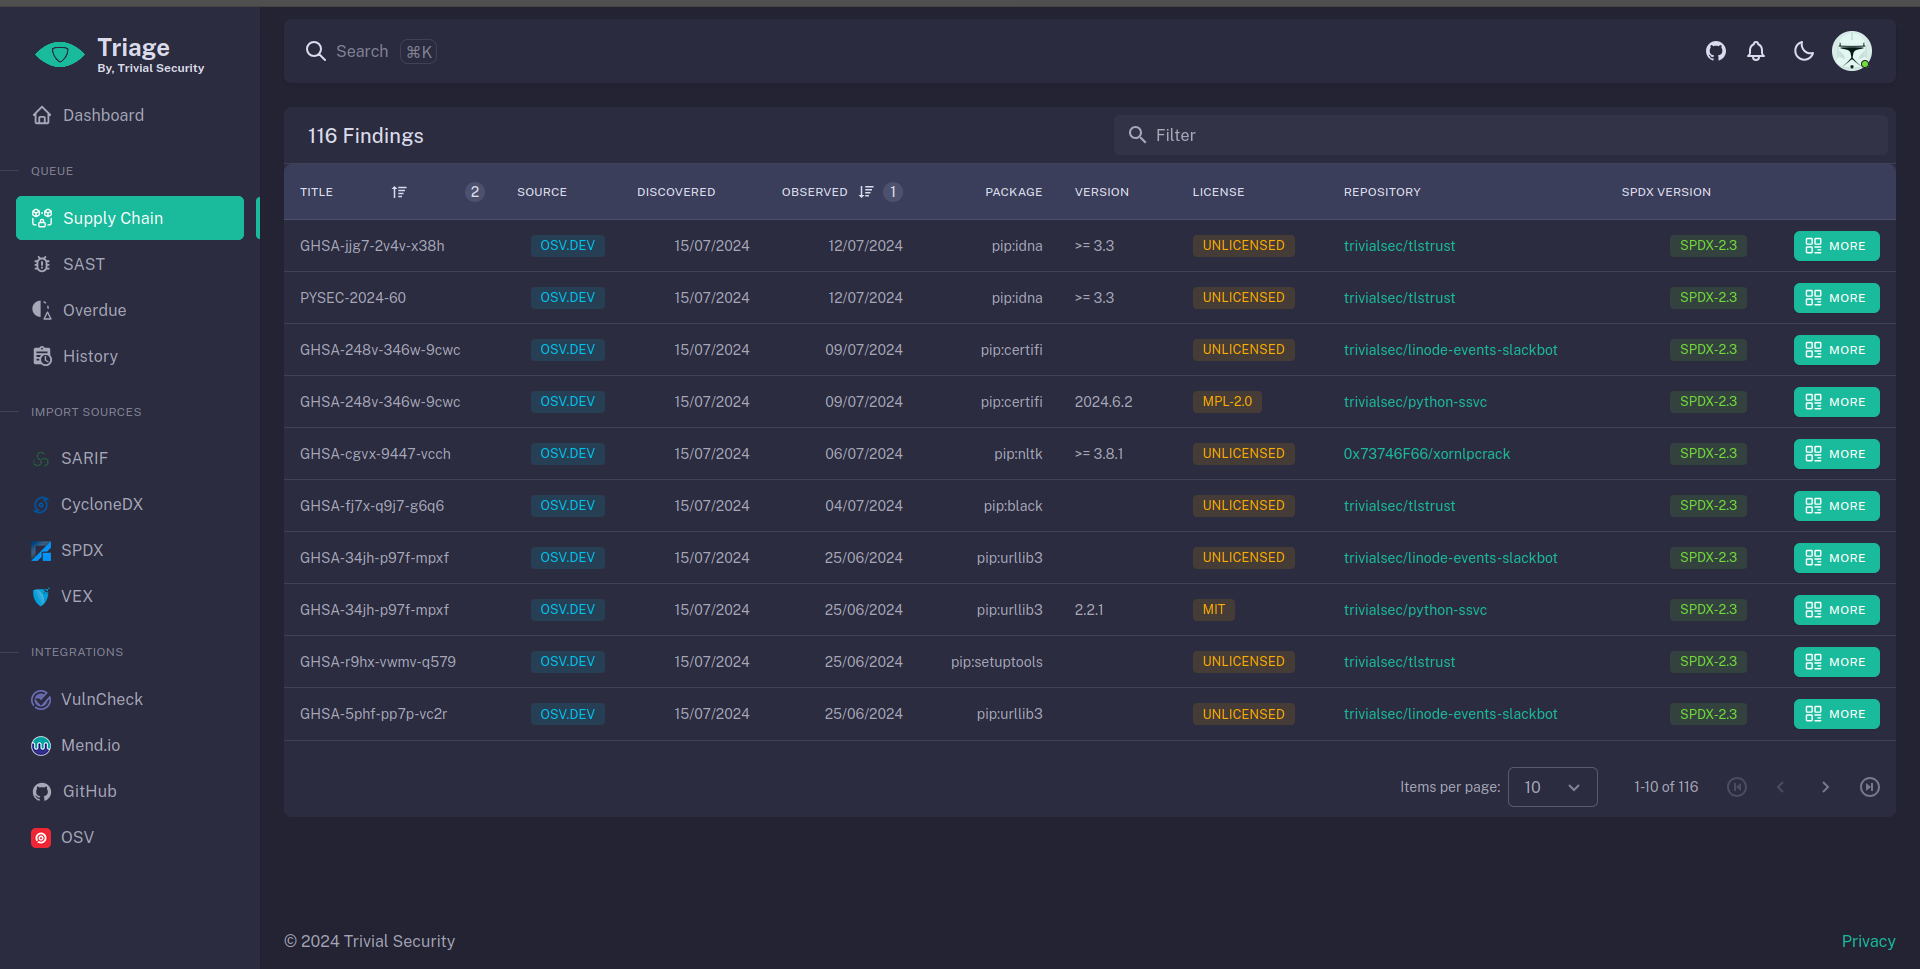
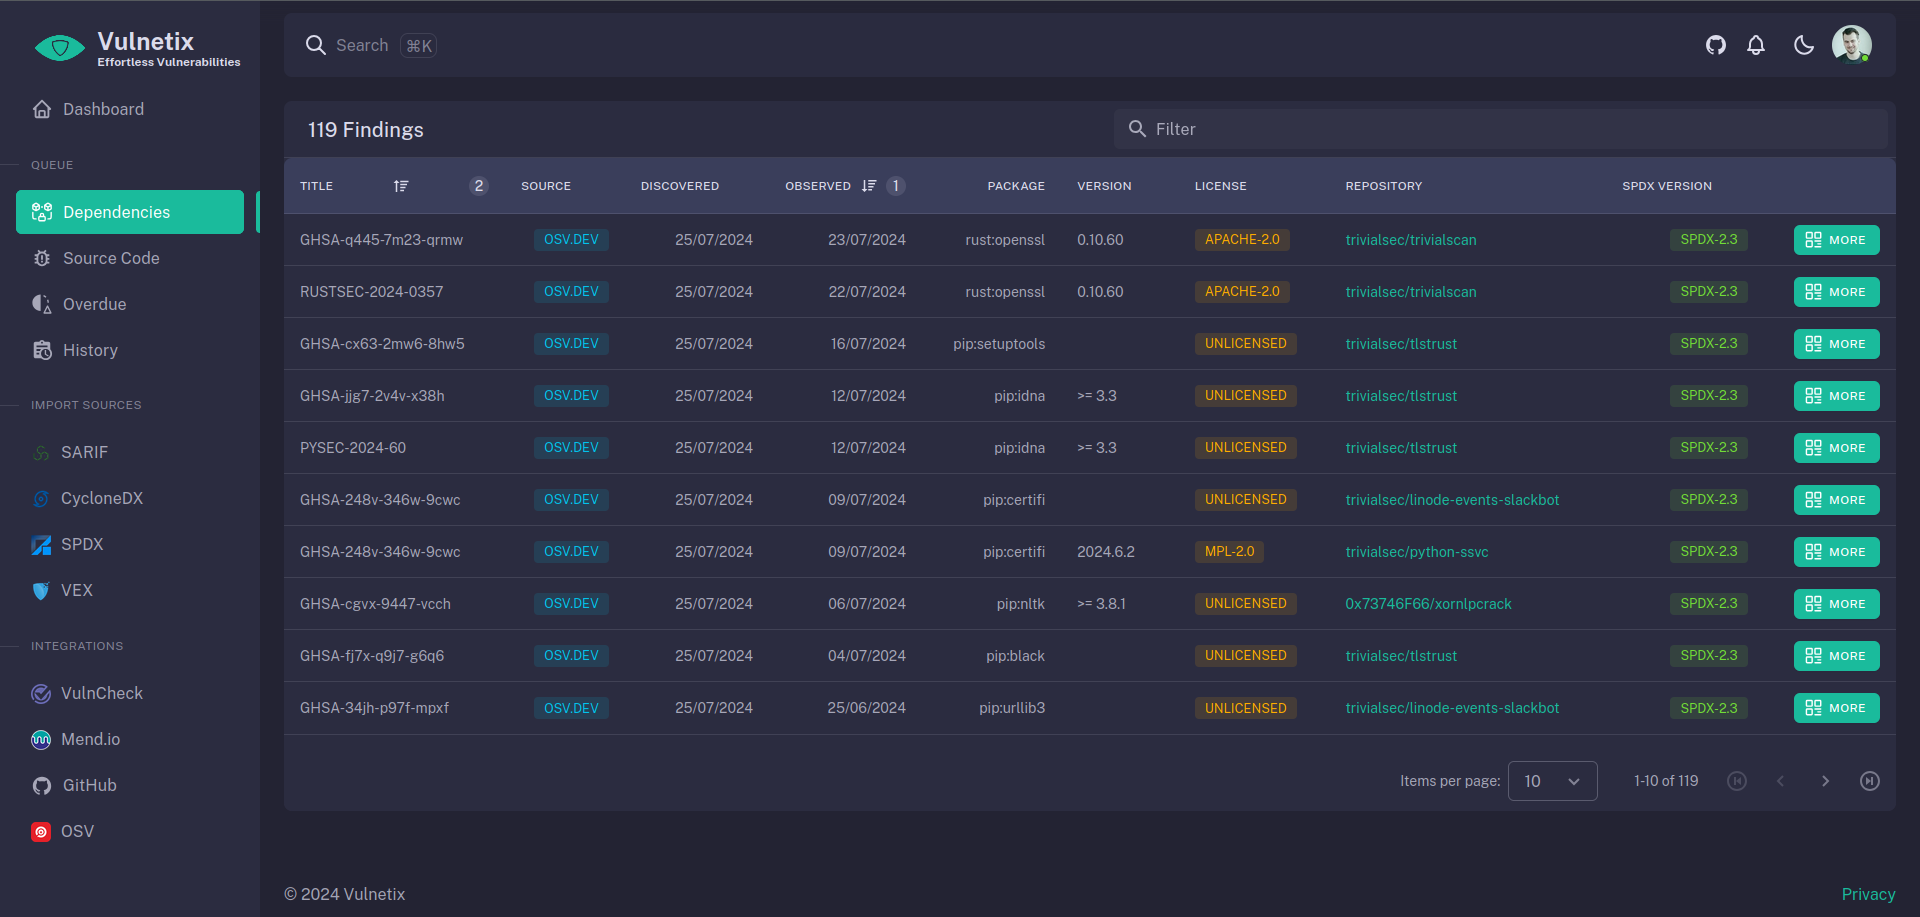
Update screenshots (#27)
chore: adjust screenshots for rename

diff --git a/README.md b/README.md
@@ -36,11 +36,17 @@ This is a preview, under active development, so you will encounter bugs while we
 
 Check the marketplace listing above for more.
 
+![GitHub Repos](.repo/ghrepos.png)
+
+![GitHub Tokens](.repo/ghtokens.png)
+
 ![SCA queue](.repo/sca.png)
 
 ![SARIF](.repo/sarif.png)
 
 ![SPDX and upload manager](.repo/spdx-upload.png)
+
+![OSV](.repo/osv.png)
 
 ## Features
 
